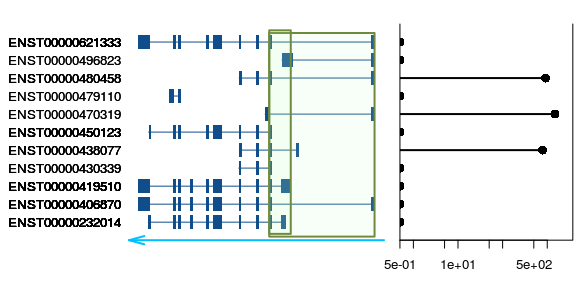
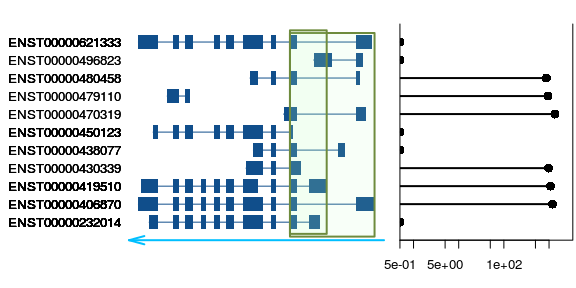
doc

diff --git a/doc/plot-transcripts.md b/doc/plot-transcripts.md
@@ -1,17 +1,7 @@
 Circtools
 ================
 Alexey Uvarovskii
-2017-04-28
-
--   [Introduction](#introduction)
--   [A proposed workflow](#a-proposed-workflow)
--   [Transcript plot](#transcript-plot)
--   [Annotation source](#annotation-source)
--   [Generate mock data](#generate-mock-data)
--   [The workflow entry point](#the-workflow-entry-point)
--   [Report sequences of the splice junction exons](#report-sequences-of-the-splice-junction-exons)
--   [Design and validate primers](#design-and-validate-primers)
--   [Session](#session)
+2017-05-18
 
 Introduction
 ------------
@@ -28,7 +18,7 @@ A proposed workflow
 -------------------
 
 1.  Prepare the input data set:
-    -   the gene model: a GTF/GFF file, TxDb or EnsDb objects
+    -   the gene model: a GTF/GFF file or EnsDb objects
     -   transcripts counts
     -   splice junction coordinates for the circular candidates.
 
@@ -45,7 +35,7 @@ One would like to know, how the predicted circRNA relate to the linear transcrip
 Annotation source
 -----------------
 
-Coordinates and types of genomic features must be known in advance, and it can be provided in the form of `GTF/GFF` file or `TxDb`/`EnsDb` objects. In the frame of the package we encourage one to use the Ensemble annotation files or R packages, which can be downloaded from the [Ensembl site](http://www.ensembl.org) or installed via the Bioconductor ecosystem:
+Coordinates and types of genomic features must be known in advance, and it can be provided in the form of `GTF/GFF` file or `EnsDb` objects. In the frame of the package we encourage one to use the Ensemble annotation files or R packages, which can be downloaded from the [Ensembl site](http://www.ensembl.org) or installed via the Bioconductor ecosystem:
 
 ``` r
 source("https://bioconductor.org/biocLite.R")
@@ -71,11 +61,22 @@ Here we create a splice junction GRanges:
 ``` r
 geneName <- "BCL6"
 circs <- createCirc(geneName, db)
+```
+
+    ## Warning: 'TxidFilter' is deprecated.
+    ## Use 'TxIdFilter' instead.
+    ## See help("Deprecated")
+
+    ## Warning: 'TxidFilter' is deprecated.
+    ## Use 'TxIdFilter' instead.
+    ## See help("Deprecated")
+
+``` r
 circs
 ```
 
     ## GRanges object with 2 ranges and 1 metadata column:
-    ##       seqnames                 ranges strand |                CIRCID
+    ##       seqnames                 ranges strand |                  sjId
     ##          <Rle>              <IRanges>  <Rle> |           <character>
     ##   [1]        3 [187734869, 187745727]      - | 3:187734869-187745727
     ##   [2]        3 [187734869, 187737088]      - | 3:187734869-187737088
@@ -91,11 +92,11 @@ tail(counts)
 
     ##                 id count
     ## 6  ENST00000450123     0
-    ## 7  ENST00000470319     0
-    ## 8  ENST00000479110     0
-    ## 9  ENST00000480458     0
-    ## 10 ENST00000496823  1237
-    ## 11 ENST00000621333  1066
+    ## 7  ENST00000470319  1344
+    ## 8  ENST00000479110   949
+    ## 9  ENST00000480458   870
+    ## 10 ENST00000496823     0
+    ## 11 ENST00000621333     0
 
 The workflow entry point
 ------------------------
@@ -126,16 +127,6 @@ plotCirc(circGenes = bcl6EnsId,
 
 ![](plot-transcripts_files/figure-markdown_github/unnamed-chunk-9-1.png)
 
-Alternatively, the `plotTranscripts` function can be used for plotting from `data.frame` or `GRanges` objects provided by the user. Since this function does not use any annotation information, it plots all provided objects:
-
-``` r
-ex <- ensembldb::exonsBy(db,  by = "tx",
-                         filter = list(GenenameFilter(geneName)))
-plotTranscripts(ex, counts = counts)
-```
-
-![](plot-transcripts_files/figure-markdown_github/unnamed-chunk-10-1.png)
-
 Report sequences of the splice junction exons
 ---------------------------------------------
 
@@ -163,7 +154,7 @@ exShortesSeq[['3:187734869-187737088']]
     ##          <Rle>              <IRanges>  <Rle> |     <character>
     ##   [1]        3 [187736090, 187737088]      - | ENSE00001666929
     ##   [2]        3 [187734869, 187734882]      - | ENSE00002535122
-    ##               gene_id                CIRCID        side
+    ##               gene_id                  sjId        side
     ##           <character>           <character> <character>
     ##   [1] ENSG00000113916 3:187734869-187737088        left
     ##   [2] ENSG00000113916 3:187734869-187737088       right
@@ -205,10 +196,10 @@ str(primers$products)
 
     ## List of 1
     ##  $ 3:187734869-187737088:'data.frame':   1 obs. of  5 variables:
-    ##   ..$ CIRCID    : chr "3:187734869-187737088"
+    ##   ..$ sjId      : chr "3:187734869-187737088"
     ##   ..$ upExonId  : chr "ENSE00001666929"
     ##   ..$ downExonId: chr "ENSE00002535122"
-    ##   ..$ circSeq   : chr "AAGCAAGGCATTGGTCTCATTGACAGCCCTGCTCCTTGGAGATTGTTTTTGTGGGTAGTCTTGTGTGTGGCATTGGTGGAATGGCTGAATCTAGGAGACGCGGCGTGTCCAGAACTTGCTGGAAATT"| __truncated__
+    ##   ..$ circSeq   : chr "TCTCATTGACAGCCCTGCTCCTTGGAGATTGTTTTTGTGGGTAGTCTTGTGTGTGGCATTGGTGGAATGGCTGAATCTAGGAGACGCGGCGTGTCCAGAACTTGCTGGAAA"| __truncated__
     ##   ..$ seqId     : chr "3:187734869-187737088"
 
 and the primers
@@ -217,18 +208,43 @@ and the primers
 primers$primers$`3:187734869-187737088`
 ```
 
-    ## $`3:187734869-187737088`
-    ## GRanges object with 2 ranges and 4 metadata columns:
-    ##       seqnames                 ranges strand |                      seq
-    ##          <Rle>              <IRanges>  <Rle> |              <character>
-    ##   [1]        3 [187737019, 187737084]      - |  AAGGCATTGGTCTCATTGACAGC
-    ##   [2]        3 [187736996, 187737062]      - | CCACACACAAGACTACCCACAAAA
-    ##              type                 seqId productSize
-    ##       <character>           <character>   <numeric>
-    ##   [1]     forward 3:187734869-187737088          66
-    ##   [2]     reverse 3:187734869-187737088          66
-    ##   -------
-    ##   seqinfo: 1 sequence from an unspecified genome; no seqlengths
+    ## GRangesList object of length 1:
+    ## $3:187734869-187737088 
+    ## GRanges object with 3 ranges and 4 metadata columns:
+    ##       seqnames                 ranges strand |                    seq
+    ##          <Rle>              <IRanges>  <Rle> |            <character>
+    ##   [1]        3 [187736090, 187736102]      - | GAGTGCTCATTTGAAGCAAGGC
+    ##   [2]        3 [187736998, 187737018]      - |  GCCATTCCACCAATGCCACAC
+    ##   [3]        3 [187734874, 187734882]      - | GAGTGCTCATTTGAAGCAAGGC
+    ##              type efficiency                 seqId
+    ##       <character>  <numeric>           <character>
+    ##   [1]     forward  0.9261266 3:187734869-187737088
+    ##   [2]     reverse  0.9692953 3:187734869-187737088
+    ##   [3]     forward  0.9261266 3:187734869-187737088
+    ## 
+    ## -------
+    ## seqinfo: 1 sequence from an unspecified genome; no seqlengths
+
+``` r
+plotCirc(circGenes = bcl6EnsId,
+         circData = circData,
+         counts = counts, 
+         primers = primers$primers$`3:187734869-187737088`)
+```
+
+![](plot-transcripts_files/figure-markdown_github/unnamed-chunk-16-1.png)
+
+Sometimes it is cleaner to keep only expressed transcripts:
+
+``` r
+plotCirc(circGenes = bcl6EnsId,
+         circData = circData,
+         counts = counts, 
+         primers = primers$primers$`3:187734869-187737088`,
+         countThres = 1)
+```
+
+![](plot-transcripts_files/figure-markdown_github/unnamed-chunk-17-1.png)
 
 Session
 -------
@@ -237,9 +253,13 @@ Session
 sessionInfo()
 ```
 
-    ## R version 3.3.3 (2017-03-06)
+    ## R version 3.4.0 (2017-04-21)
     ## Platform: x86_64-pc-linux-gnu (64-bit)
     ## Running under: Ubuntu 16.04.2 LTS
+    ## 
+    ## Matrix products: default
+    ## BLAS: /usr/lib/openblas-base/libblas.so.3
+    ## LAPACK: /usr/lib/libopenblasp-r0.2.18.so
     ## 
     ## locale:
     ##  [1] LC_CTYPE=en_US.UTF-8       LC_NUMERIC=C              
@@ -250,44 +270,49 @@ sessionInfo()
     ## [11] LC_MEASUREMENT=de_DE.UTF-8 LC_IDENTIFICATION=C       
     ## 
     ## attached base packages:
-    ## [1] stats4    parallel  stats     graphics  grDevices utils     datasets 
-    ## [8] methods   base     
+    ## [1] stats4    parallel  methods   stats     graphics  grDevices utils    
+    ## [8] datasets  base     
     ## 
     ## other attached packages:
     ##  [1] BSgenome.Hsapiens.NCBI.GRCh38_1.3.1000
-    ##  [2] BSgenome_1.42.0                       
-    ##  [3] rtracklayer_1.34.2                    
-    ##  [4] Biostrings_2.42.1                     
-    ##  [5] XVector_0.14.1                        
+    ##  [2] BSgenome_1.44.0                       
+    ##  [3] rtracklayer_1.36.0                    
+    ##  [4] Biostrings_2.44.0                     
+    ##  [5] XVector_0.16.0                        
     ##  [6] circtools_0.0.0.9000                  
     ##  [7] EnsDb.Hsapiens.v86_2.1.0              
-    ##  [8] ensembldb_1.6.2                       
-    ##  [9] GenomicFeatures_1.26.4                
-    ## [10] AnnotationDbi_1.36.2                  
-    ## [11] Biobase_2.34.0                        
-    ## [12] GenomicRanges_1.26.4                  
-    ## [13] GenomeInfoDb_1.10.3                   
-    ## [14] IRanges_2.8.2                         
-    ## [15] S4Vectors_0.12.2                      
-    ## [16] BiocGenerics_0.20.0                   
+    ##  [8] ensembldb_2.0.1                       
+    ##  [9] AnnotationFilter_1.0.0                
+    ## [10] GenomicFeatures_1.28.0                
+    ## [11] AnnotationDbi_1.38.0                  
+    ## [12] Biobase_2.36.2                        
+    ## [13] GenomicRanges_1.28.1                  
+    ## [14] GenomeInfoDb_1.12.0                   
+    ## [15] IRanges_2.10.1                        
+    ## [16] S4Vectors_0.14.1                      
+    ## [17] BiocGenerics_0.22.0                   
+    ## [18] rmarkdown_1.5                         
     ## 
     ## loaded via a namespace (and not attached):
-    ##  [1] Rcpp_0.12.10                  BiocInstaller_1.24.0         
-    ##  [3] AnnotationHub_2.6.5           bitops_1.0-6                 
-    ##  [5] tools_3.3.3                   zlibbioc_1.20.0              
-    ##  [7] biomaRt_2.30.0                digest_0.6.12                
-    ##  [9] RSQLite_1.1-2                 evaluate_0.10                
-    ## [11] memoise_1.0.0                 lattice_0.20-35              
-    ## [13] Matrix_1.2-8                  shiny_1.0.2                  
-    ## [15] DBI_0.6-1                     yaml_2.1.14                  
-    ## [17] stringr_1.2.0                 httr_1.2.1                   
-    ## [19] knitr_1.15.1                  rprojroot_1.2                
-    ## [21] grid_3.3.3                    R6_2.2.0                     
-    ## [23] XML_3.98-1.6                  BiocParallel_1.8.2           
-    ## [25] rmarkdown_1.4                 DECIPHER_2.2.0               
-    ## [27] magrittr_1.5                  backports_1.0.5              
-    ## [29] Rsamtools_1.26.2              htmltools_0.3.5              
-    ## [31] GenomicAlignments_1.10.1      SummarizedExperiment_1.4.0   
-    ## [33] xtable_1.8-2                  mime_0.5                     
-    ## [35] interactiveDisplayBase_1.12.0 httpuv_1.3.3                 
-    ## [37] stringi_1.1.5                 RCurl_1.95-4.8
+    ##  [1] SummarizedExperiment_1.6.1    lattice_0.20-35              
+    ##  [3] DECIPHER_2.4.0                htmltools_0.3.6              
+    ##  [5] yaml_2.1.14                   interactiveDisplayBase_1.14.0
+    ##  [7] XML_3.98-1.7                  DBI_0.6-1                    
+    ##  [9] BiocParallel_1.10.1           matrixStats_0.52.2           
+    ## [11] GenomeInfoDbData_0.99.0       stringr_1.2.0                
+    ## [13] zlibbioc_1.22.0               ProtGenerics_1.8.0           
+    ## [15] memoise_1.1.0                 evaluate_0.10                
+    ## [17] knitr_1.15.1                  biomaRt_2.32.0               
+    ## [19] httpuv_1.3.3                  BiocInstaller_1.26.0         
+    ## [21] Rcpp_0.12.10                  xtable_1.8-2                 
+    ## [23] backports_1.0.5               DelayedArray_0.2.2           
+    ## [25] mime_0.5                      Rsamtools_1.28.0             
+    ## [27] AnnotationHub_2.8.1           digest_0.6.12                
+    ## [29] stringi_1.1.5                 shiny_1.0.3                  
+    ## [31] rprojroot_1.2                 grid_3.4.0                   
+    ## [33] tools_3.4.0                   bitops_1.0-6                 
+    ## [35] magrittr_1.5                  RCurl_1.95-4.8               
+    ## [37] lazyeval_0.2.0                RSQLite_1.1-2                
+    ## [39] Matrix_1.2-10                 httr_1.2.1                   
+    ## [41] R6_2.2.1                      GenomicAlignments_1.12.1     
+    ## [43] compiler_3.4.0
